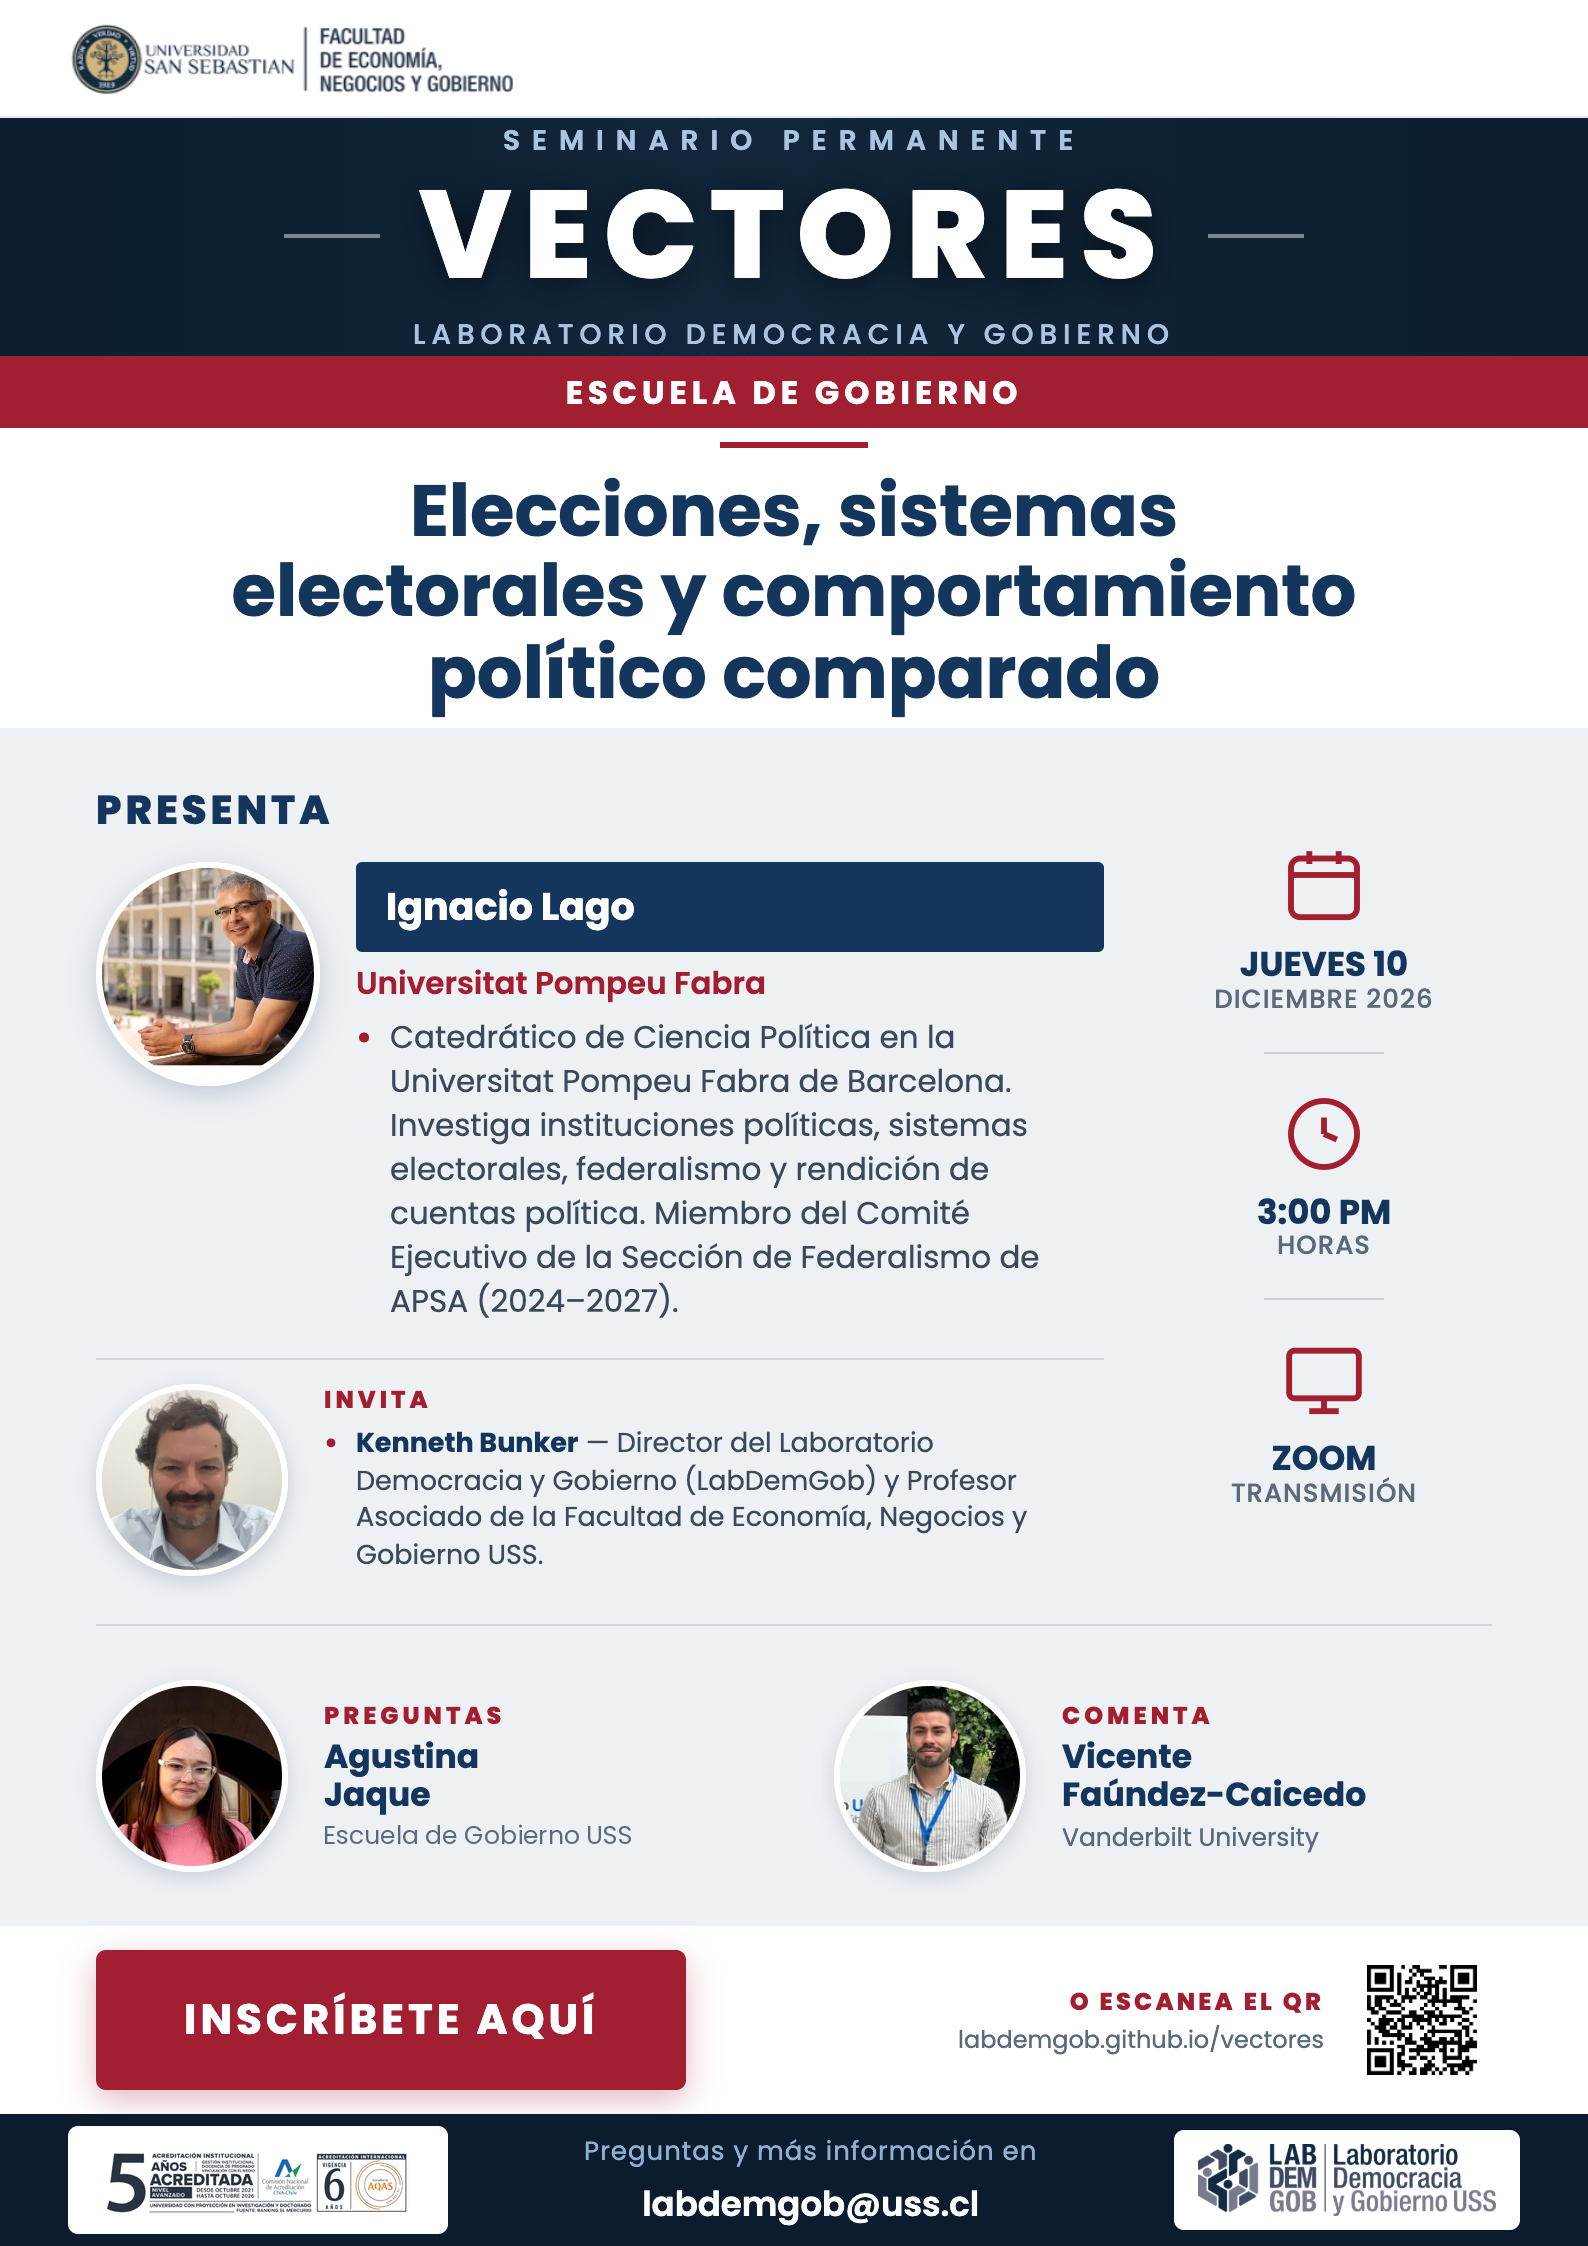
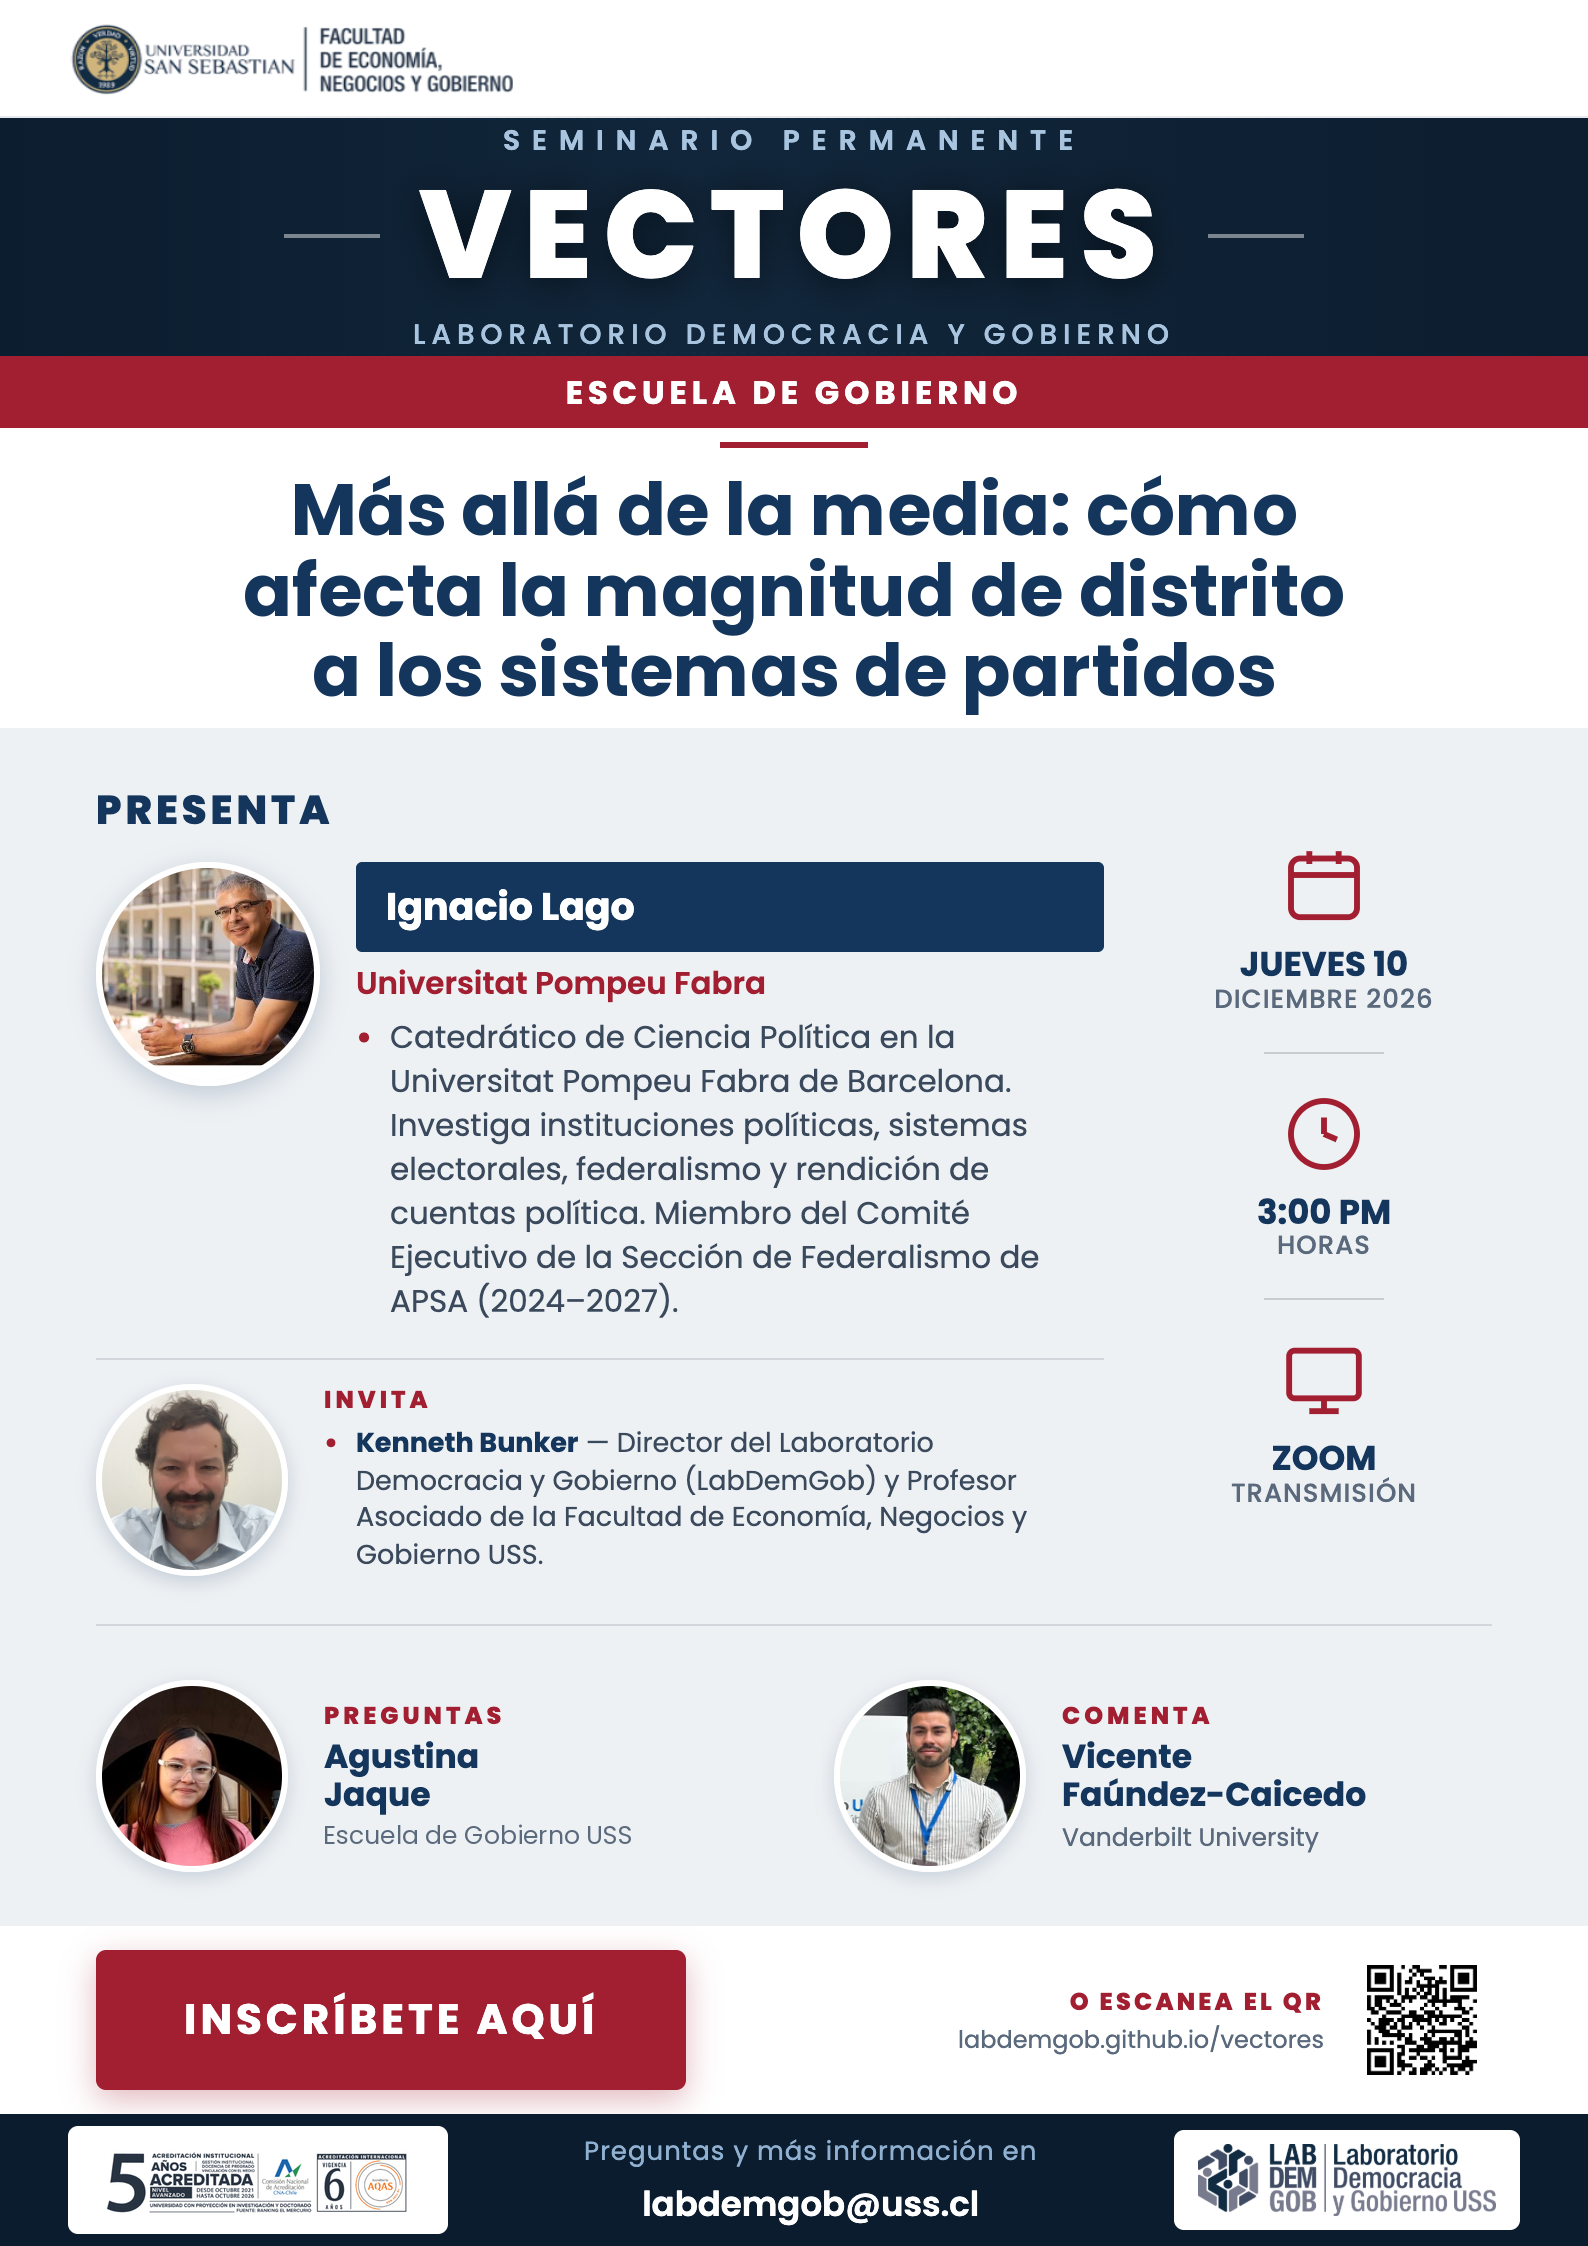
Vectores #30: nuevo título Lago

Changed region(s): [[0.1234, 0.2182, 0.864, 0.3117]]

diff --git a/vectores/index.html b/vectores/index.html
@@ -305,7 +305,7 @@
                     <div class="seminar-date">Dic 2026</div>
                 </div>
                 <div class="seminar-content">
-                    <h3>Elecciones, sistemas electorales y comportamiento político comparado</h3>
+                    <h3>Más allá de la media: cómo afecta la magnitud de distrito a los sistemas de partidos</h3>
                     <p class="seminar-presenter"><strong>Ignacio Lago</strong> · Universitat Pompeu Fabra</p>
                     <p class="seminar-bio">Catedrático de Ciencia Política en la Universitat Pompeu Fabra de Barcelona. Investiga instituciones políticas, sistemas electorales, federalismo y rendición de cuentas política. Miembro del Comité Ejecutivo de la Sección de Federalismo de APSA (2024–2027).</p>
                     <a href="https://forms.gle/jFuHvAtcKpvXAa3Z9" class="seminar-btn seminar-btn-live">Regístrate aquí</a>
